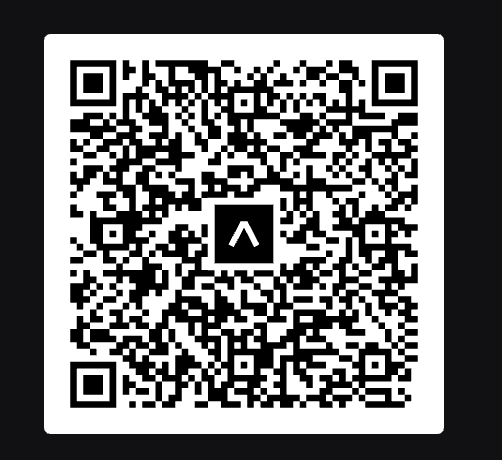
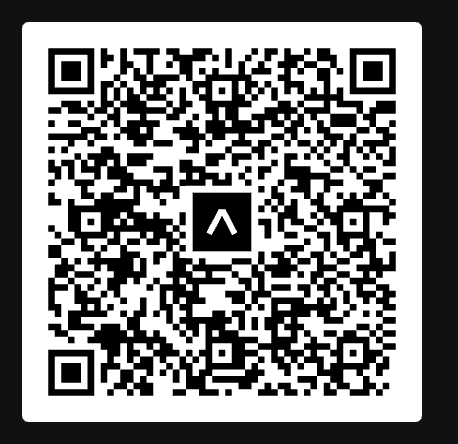
update QR

diff --git a/README.md b/README.md
@@ -13,7 +13,7 @@ A React Native application for browsing and reviewing GitHub repositories, built
 ## Try the App on your phone
 
 Try the App on your phone by scanning the QR code with Expo Go:
-![Sign In](./qr.png)
+![QR](./qr.png)
 
 ## Commands
 
